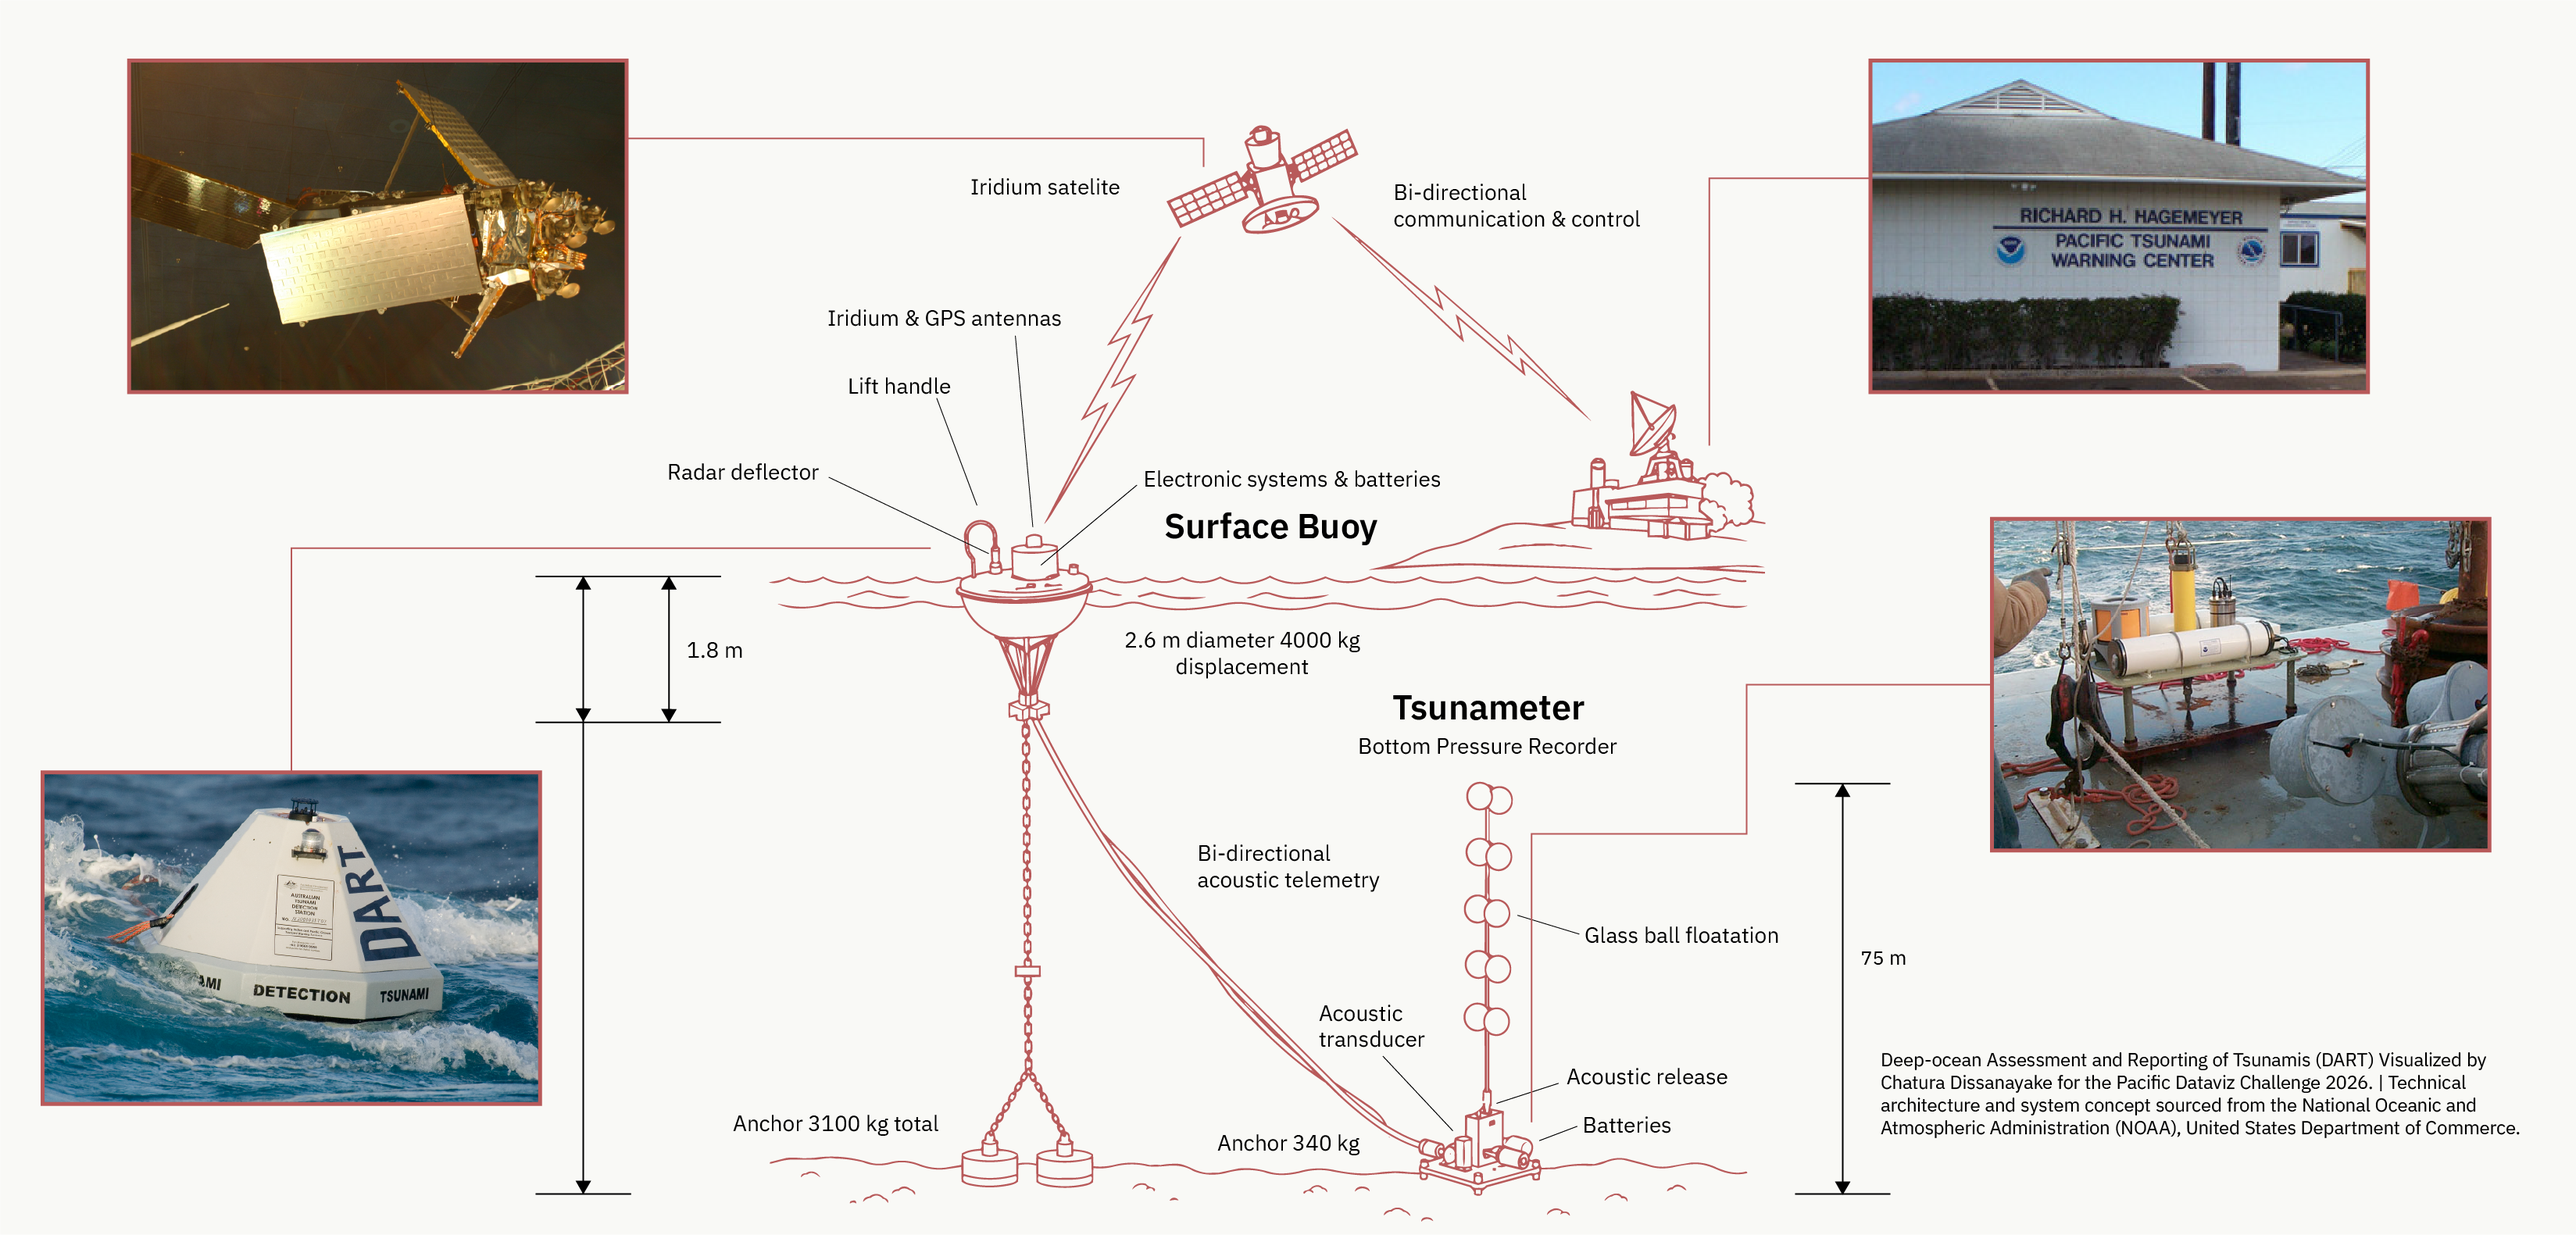
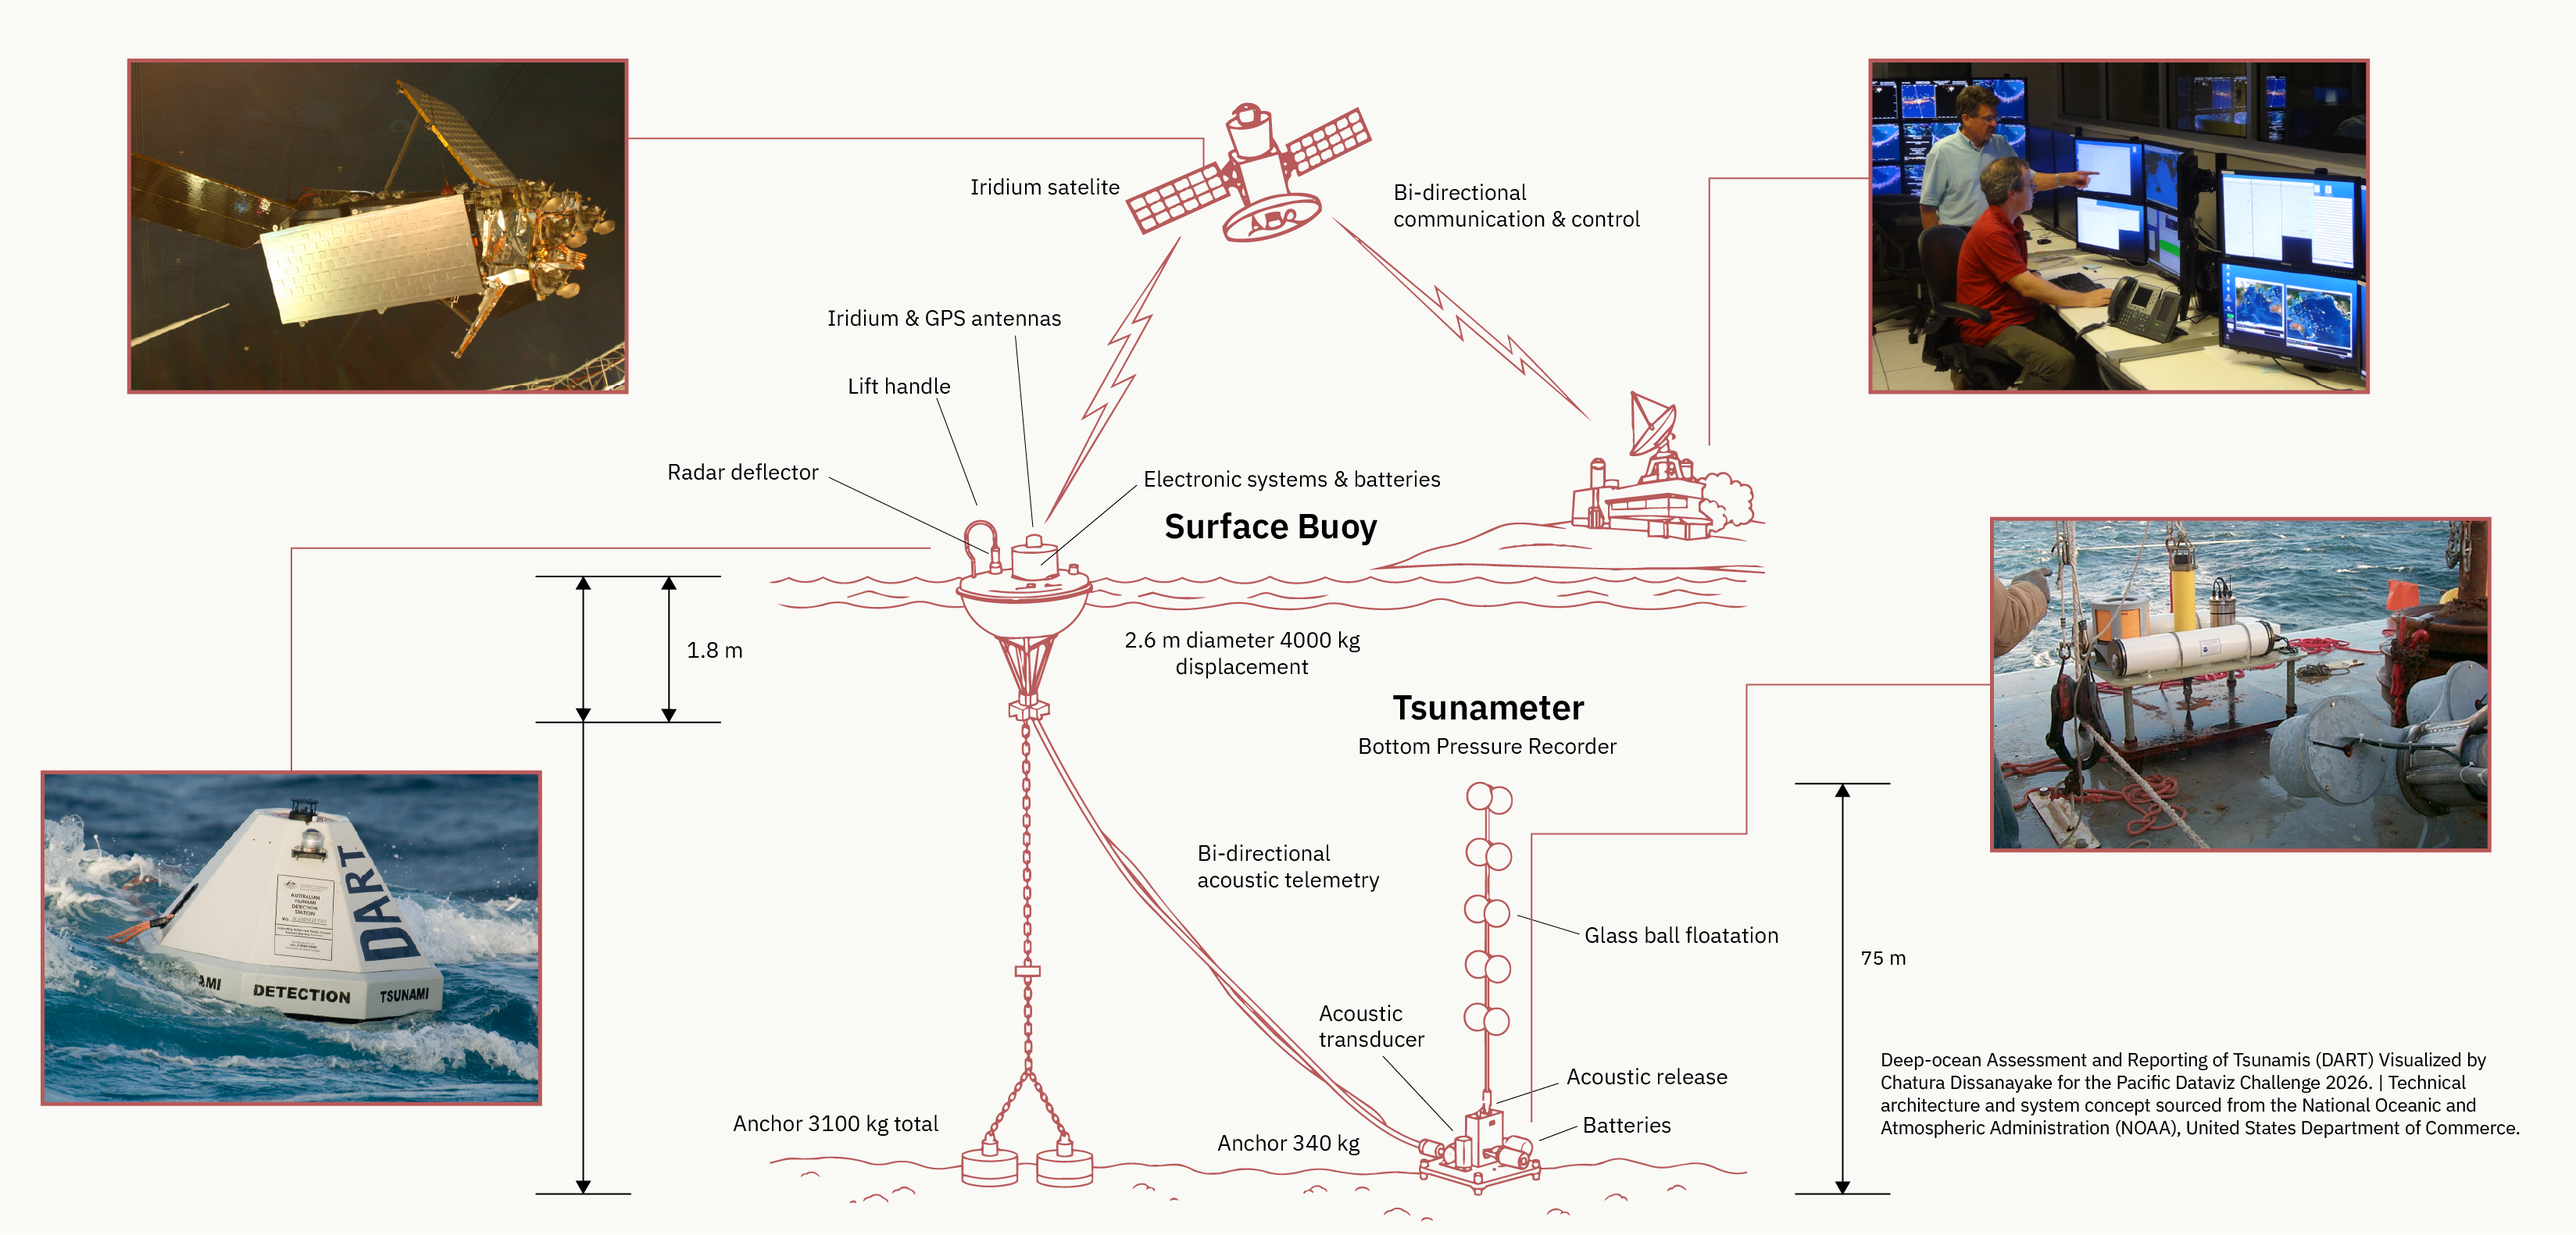
2.1.10

Changed region(s): [[0.7185, 0.031, 0.9372, 0.3409], [0.4374, 0.093, 0.5311, 0.217]]

diff --git a/index.html b/index.html
@@ -40,7 +40,6 @@
     margin: 2rem 0;
     background: var(--bg-paper-soft, #f7f9fa);
     border: 1px solid var(--line, #e2e8f0);
-    border-radius: 4px;
     overflow: hidden;
     display: flex;
     flex-direction: column;
@@ -65,7 +64,6 @@
   }
 .img-fallback-active {
     background: transparent;
-    border: 1px dashed var(--ink-faint); /* Clean ash line */
     min-height: 220px;
   }
   .img-fallback-active::after {
@@ -262,8 +260,8 @@
         <figure class="reveal" data-placeholder-label="Buoy Diagram (3296 x 1580)" style="aspect-ratio: 3296 / 1580; background: transparent; border: none; border-radius: 0; width: calc(100% - 4rem); max-width: 950px; margin: 3rem auto 0 auto; padding: 0; overflow: visible;">
             <img src="assets/illustrations/buoy-isometric-cutaway.png" alt="Deep ocean DART buoy technical diagram" style="object-fit: contain !important; width: 100% !important; height: 100% !important; display: block;">
         </figure>
-        <p class="source-caption" style="color: #888; text-align: center; max-width: 950px; margin: 1rem auto 0 auto; padding: 0 2rem; position: relative; z-index: 2;">
-            Deep-ocean Assessment and Reporting of Tsunamis (DART) system. Source: <a href="https://www.ndbc.noaa.gov/dart.shtml" target="_blank" rel="noopener" class="source-link">National Data Buoy Center, NOAA</a>, U.S. Department of Commerce.
+        <p class="source-caption" style="text-align: center; max-width: 950px; margin: 1rem auto 0 auto; padding: 0 2rem; position: relative; z-index: 2;">
+            <a href="https://www.ndbc.noaa.gov/dart.shtml" target="_blank" rel="noopener" class="source-link">National Data Buoy Center, NOAA</a>. <span class="source-details">Deep-ocean Assessment and Reporting of Tsunamis (DART) system, U.S. Department of Commerce.</span>
         </p>
 
         <div class="central-figure-head reveal" style="text-align: left; max-width: 680px; margin: 4rem auto 3rem auto; padding: 0 2rem;">
@@ -311,24 +309,25 @@
             <p>This chart tracks the number of people directly affected by disasters each year, and the average annual economic loss disasters inflict, across Pacific Island Countries. While disasters are intensifying, local tracking hardware remains <a href="https://pacificdata.org/" target="_blank" rel="noopener" class="source-link">dangerously sparse across the Pacific region</a>.</p>
             <p>Without localised ground-truth data, forecasting relies heavily on coarse satellite estimates. This severely reduces landfall accuracy, narrowing the crucial <a href="https://public.wmo.int/en/earlywarningsforall" target="_blank" rel="noopener" class="source-link">lead time for evacuations</a> from days to hours. When data infrastructure is neglected, communities pay for it in disaster recovery and unmanaged vulnerability.</p>
             
-            <div class="ground-truth-grid" style="display: grid; grid-template-columns: repeat(4, 1fr); gap: 0.4rem; margin: 2rem 0;">
-                <div style="aspect-ratio: 3 / 4; overflow: hidden; background: #000;">
-                    <img src="assets/photos/ground-truth-01.jpg" alt="Overwash event flooding an atoll in the Marshall Islands" style="width: 100%; height: 100%; object-fit: cover; opacity: 0.9;" data-fallback-label="true">
-                </div>
-                <div style="aspect-ratio: 3 / 4; overflow: hidden; background: #000;">
-                    <img src="assets/photos/ground-truth-02.jpg" alt="Waves washing over a coastal road on Roi-Namur Island, Kwajalein Atoll" style="width: 100%; height: 100%; object-fit: cover; opacity: 0.9;" data-fallback-label="true">
-                </div>
-                <div style="aspect-ratio: 3 / 4; overflow: hidden; background: #000;">
-                    <img src="assets/photos/ground-truth-03.jpg" alt="NASA GPM satellite precipitation composite of Cyclone Pam near Vanuatu" style="width: 100%; height: 100%; object-fit: cover; opacity: 0.9;" data-fallback-label="true">
-                </div>
-                <div style="aspect-ratio: 3 / 4; overflow: hidden; background: #000;">
-                    <img src="assets/photos/ground-truth-04.jpg" alt="Illustration of the GPM Core Observatory satellite in orbit" style="width: 100%; height: 100%; object-fit: cover; opacity: 0.9;" data-fallback-label="true">
-                </div>
-            </div>
-            <figcaption class="source-caption" style="color: #888; padding: 0.75rem 0;">
-                <strong>Ground Truth:</strong> Chronic overwash and storm surge routinely swamp low-lying atolls in the Pacific, while the satellites tasked with tracking these storms remain the primary — often only — source of warning data. Credit: USGS / NASA-JAXA GPM, public domain.
-            </figcaption>
         </div>
+
+        <div class="ground-truth-grid" style="display: grid; grid-template-columns: 1fr 1fr; gap: 0.75rem; width: 100%; max-width: 960px; margin: 0 auto; padding: 0 2rem;">
+            <div class="img-placeholder-holder" data-img-holder data-placeholder-label="Overwash Flooding, Marshall Islands (4:3)" style="aspect-ratio: 4 / 3; overflow: hidden; background: #000; min-height: 0;">
+                <img src="assets/photos/ground-truth-01.jpg" alt="Overwash event flooding an atoll in the Marshall Islands" style="width: 100%; height: 100%; object-fit: cover; opacity: 0.9;" data-fallback-label="true">
+            </div>
+            <div class="img-placeholder-holder" data-img-holder data-placeholder-label="Coastal Road Flooding, Kwajalein Atoll (4:3)" style="aspect-ratio: 4 / 3; overflow: hidden; background: #000; min-height: 0;">
+                <img src="assets/photos/ground-truth-02.jpg" alt="Waves washing over a coastal road on Roi-Namur Island, Kwajalein Atoll" style="width: 100%; height: 100%; object-fit: cover; opacity: 0.9;" data-fallback-label="true">
+            </div>
+            <div class="img-placeholder-holder" data-img-holder data-placeholder-label="Cyclone Pam Satellite Composite (4:3)" style="aspect-ratio: 4 / 3; overflow: hidden; background: #000; min-height: 0;">
+                <img src="assets/photos/ground-truth-03.jpg" alt="NASA GPM satellite precipitation composite of Cyclone Pam near Vanuatu" style="width: 100%; height: 100%; object-fit: cover; opacity: 0.9;" data-fallback-label="true">
+            </div>
+            <div class="img-placeholder-holder" data-img-holder data-placeholder-label="GPM Core Observatory Illustration (4:3)" style="aspect-ratio: 4 / 3; overflow: hidden; background: #000; min-height: 0;">
+                <img src="assets/photos/ground-truth-04.jpg" alt="Illustration of the GPM Core Observatory satellite in orbit" style="width: 100%; height: 100%; object-fit: cover; opacity: 0.9;" data-fallback-label="true">
+            </div>
+        </div>
+        <p class="source-caption" style="font-size: 0.75rem !important; color: var(--ink-faint) !important; line-height: 1.6 !important; max-width: 960px; margin: 0.75rem auto 3rem auto; padding: 0 2rem;">
+            Ground Truth: Chronic overwash and storm surge routinely swamp low-lying atolls in the Pacific, while the satellites tasked with tracking these storms remain the primary — often only — source of warning data. <span class="source-details">Photos 1&ndash;2: <a href="https://www.usgs.gov/" target="_blank" rel="noopener" class="source-link">USGS</a>, public domain. Photos 3&ndash;4: <a href="https://gpm.nasa.gov/" target="_blank" rel="noopener" class="source-link">NASA/JAXA GPM</a> mission, public domain.</span>
+        </p>
         
         <figure class="article-graphic">
             <div class="chart-controls-wrapper reveal">
@@ -620,7 +619,7 @@
 
         <div class="caption-wrapper" style="max-width: 1200px; padding: 1rem 2rem 0 2rem;">
             <figcaption class="source-caption">
-                <a href="https://pacificdata.org/data/dataset/meteorological-monitoring-network-df-meteo-monitor-net" target="_blank" rel="noopener" class="source-link">Pacific Data Hub (Indicator DF_METEO_MONITOR_NET)</a>. <span class="source-details">Official baseline data for operational land meteorological monitoring networks across Pacific territories.</span>
+                <a href="https://pacificdata.org/data/dataset/meteorological-monitoring-network-df-meteo-monitor-net" target="_blank" rel="noopener" class="source-link">Pacific Data Hub (Indicator DF_METEO_MONITOR_NET)</a>. <span class="source-details">Official baseline data for operational land meteorological monitoring networks across Pacific territories. Country outline basemaps: satellite imagery from Google Earth / Google Maps.</span>
             </figcaption>
             <a href="https://stats.pacificdata.org/vis?lc=en&df[ds]=ds%3ASPC2&df[id]=DF_METEO_MONITOR_NET" target="_blank" rel="noopener" class="download-btn">
                 <svg width="12" height="12" viewBox="0 0 24 24" fill="none" stroke="currentColor" stroke-width="2" stroke-linecap="round" stroke-linejoin="round"><path d="M21 15v4a2 2 0 0 1-2 2H5a2 2 0 0 1-2-2v-4"></path><polyline points="7 10 12 15 17 10"></polyline><line x1="12" y1="15" x2="12" y2="3"></line></svg>
@@ -779,13 +778,13 @@
             </div>
         </figure>
 
+        <figure style="margin: 2.5rem 0 0 0; border: none; background: #000; width: 100%; max-width: 100%; aspect-ratio: 21 / 9;">
+            <img src="assets/photos/soff-closing.jpg" alt="Calm ocean waves at dawn" style="width: 100%; height: 100%; object-fit: cover; opacity: 0.9; display: block;">
+        </figure>
         <div class="article-copy reveal">
-            <figure class="editorial-img-container" data-img-holder data-placeholder-label="Closing image — panoramic strip (21:9)" style="margin: 2.5rem 0 0 0; border: none; background: #000; aspect-ratio: 21 / 9;">
-                <img src="assets/photos/soff-closing.jpg" alt="A calm Pacific coastline at dawn" style="width: 100%; height: 100%; object-fit: cover; opacity: 0.9; filter: grayscale(15%);" data-fallback-label="true">
-                <figcaption class="source-caption" style="color: #888; padding: 0.75rem 0;">
-                    <strong>What closing the gap looks like:</strong> every country in Investment Phase today started in the same Readiness queue the other five are in now. The pipeline works — it just needs to keep moving.
-                </figcaption>
-            </figure>
+            <figcaption class="source-caption" style="padding: 0.75rem 0 0 0;">
+                What closing the gap looks like: every country in Investment Phase today started in the same Readiness queue the other five are in now. The pipeline works — it just needs to keep moving. <span class="source-details">Photo: Oscar Ävalos / <a href="https://unsplash.com/photos/ocean-waves-crashing-on-shore-during-daytime-OnnR6RQf-Ak" target="_blank" rel="noopener" class="source-link">Unsplash</a>.</span>
+            </figcaption>
         </div>
     </section>
 

diff --git a/css/components.css b/css/components.css
@@ -259,8 +259,6 @@
     flex-direction: column;
     align-items: center;
     padding: 2.5rem 1.5rem; 
-    border-radius: 6px; 
-    border: 1px solid var(--line);
     box-shadow: 0 4px 12px rgba(15, 23, 42, 0.03);
 }
 .flip-card-front {
@@ -317,7 +315,6 @@
     border: 1px solid var(--ink-soft);
     color: var(--ink);
     padding: 0.5rem 0.8rem;
-    border-radius: 4px;
     font-family: var(--font-mono);
     font-size: 0.75rem;
     font-weight: 600;
@@ -665,7 +662,6 @@ svg text {
     background-color: transparent;
     border: 1px solid var(--accent-coral);
     padding: 0.25rem 0.6rem;
-    border-radius: 2px;
     pointer-events: none;
 }
 .instruction-text {
@@ -927,7 +923,6 @@ button.download-btn {
     display: inline-block;
     border: 1px solid var(--accent-coral-soft);
     padding: 0.2rem 0.5rem;
-    border-radius: 2px;
 }
 .flip-card:hover .quiz-type {
     background-color: var(--accent-coral);

diff --git a/css/main.css b/css/main.css
@@ -15,6 +15,7 @@
     --accent-ocean: #005C8A; /* Deep Marine Blue */
     --accent-ocean-soft: rgba(0, 92, 138, 0.1);
     --accent-ocean-dark: #003B5C;
+    --accent-ocean-wash: rgba(0, 92, 138, 0.05); /* Pacific wash for light/paper section backgrounds */
     --accent-warning: #E9C46A; /* Sharp Ochre */
     --accent-success: #2A9D8F; /* Clear Teal */
     

diff --git a/css/layout.css b/css/layout.css
@@ -312,8 +312,6 @@
     align-items: center;
     justify-content: center;
     background: var(--bg-paper-soft);
-    border: 1px dashed var(--line);
-    border-radius: var(--radius-md);
     overflow: hidden;
     min-height: 220px;
 }
